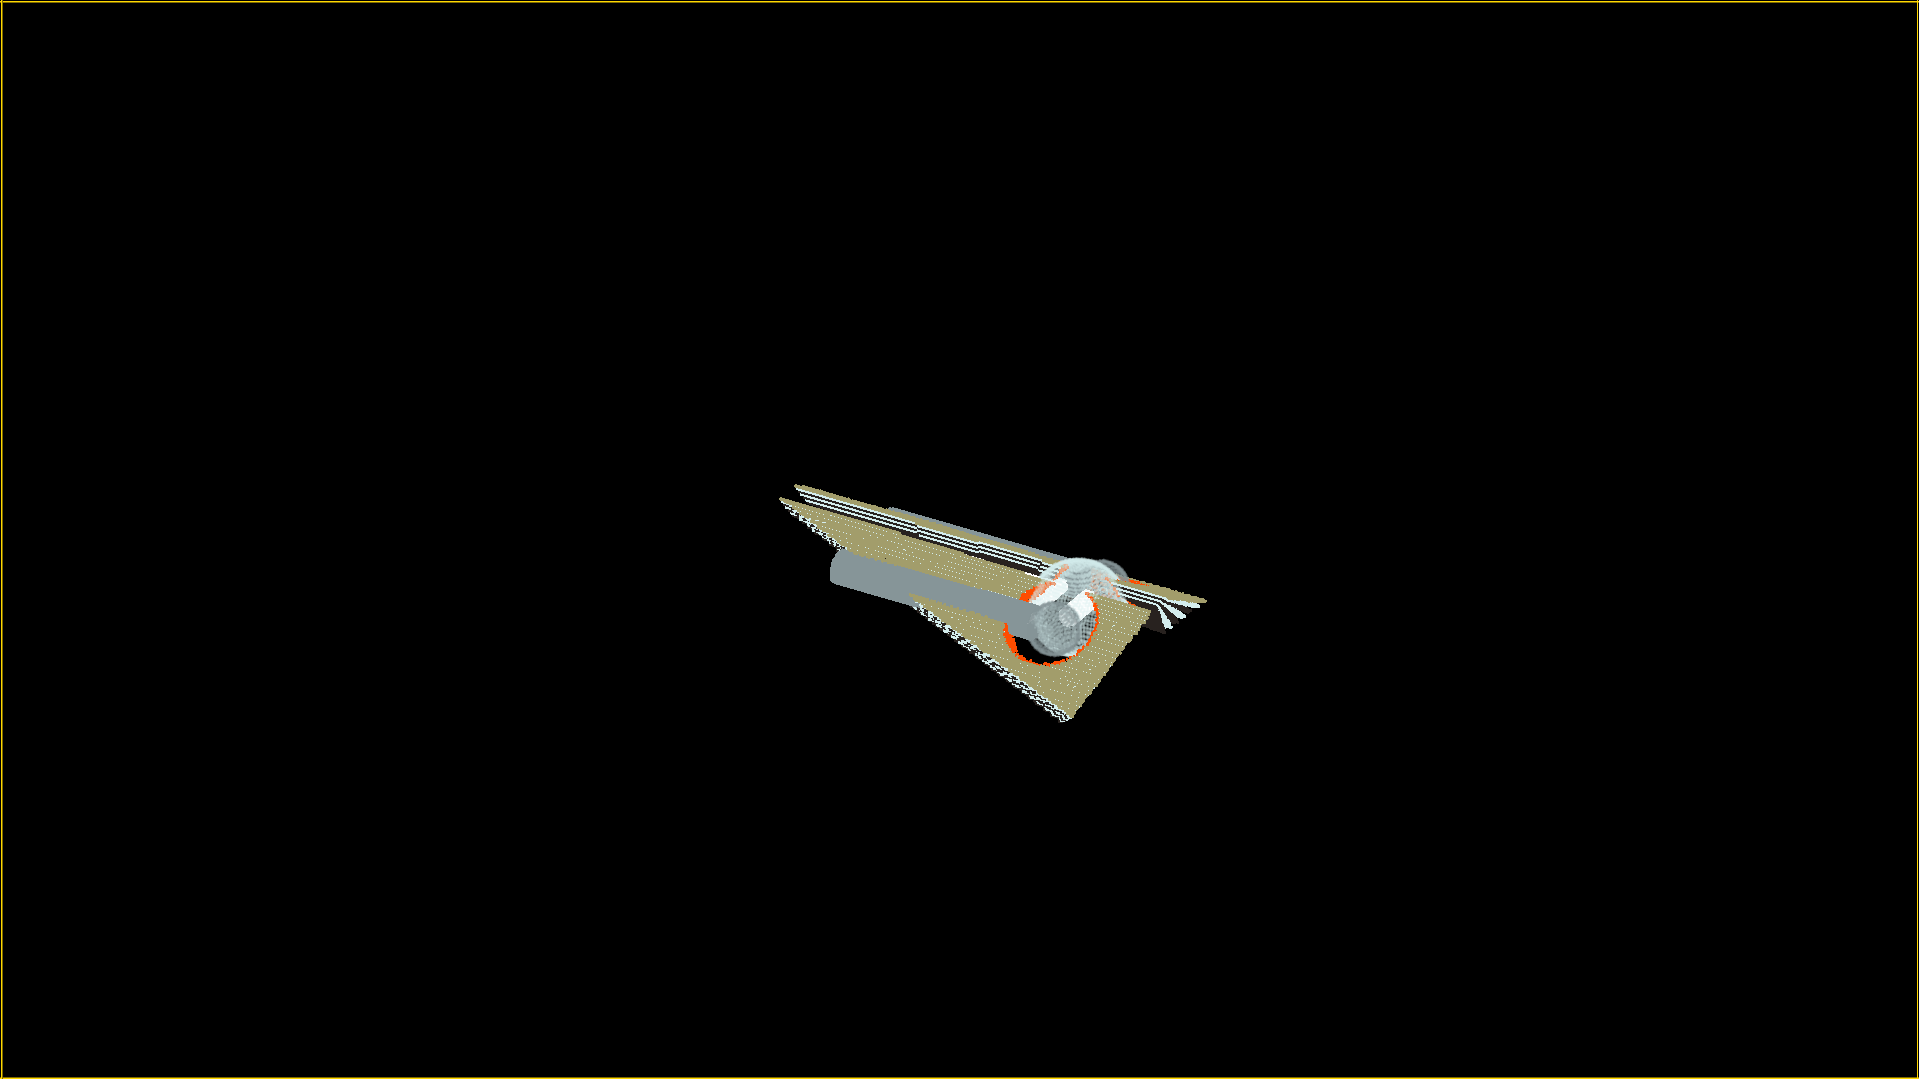
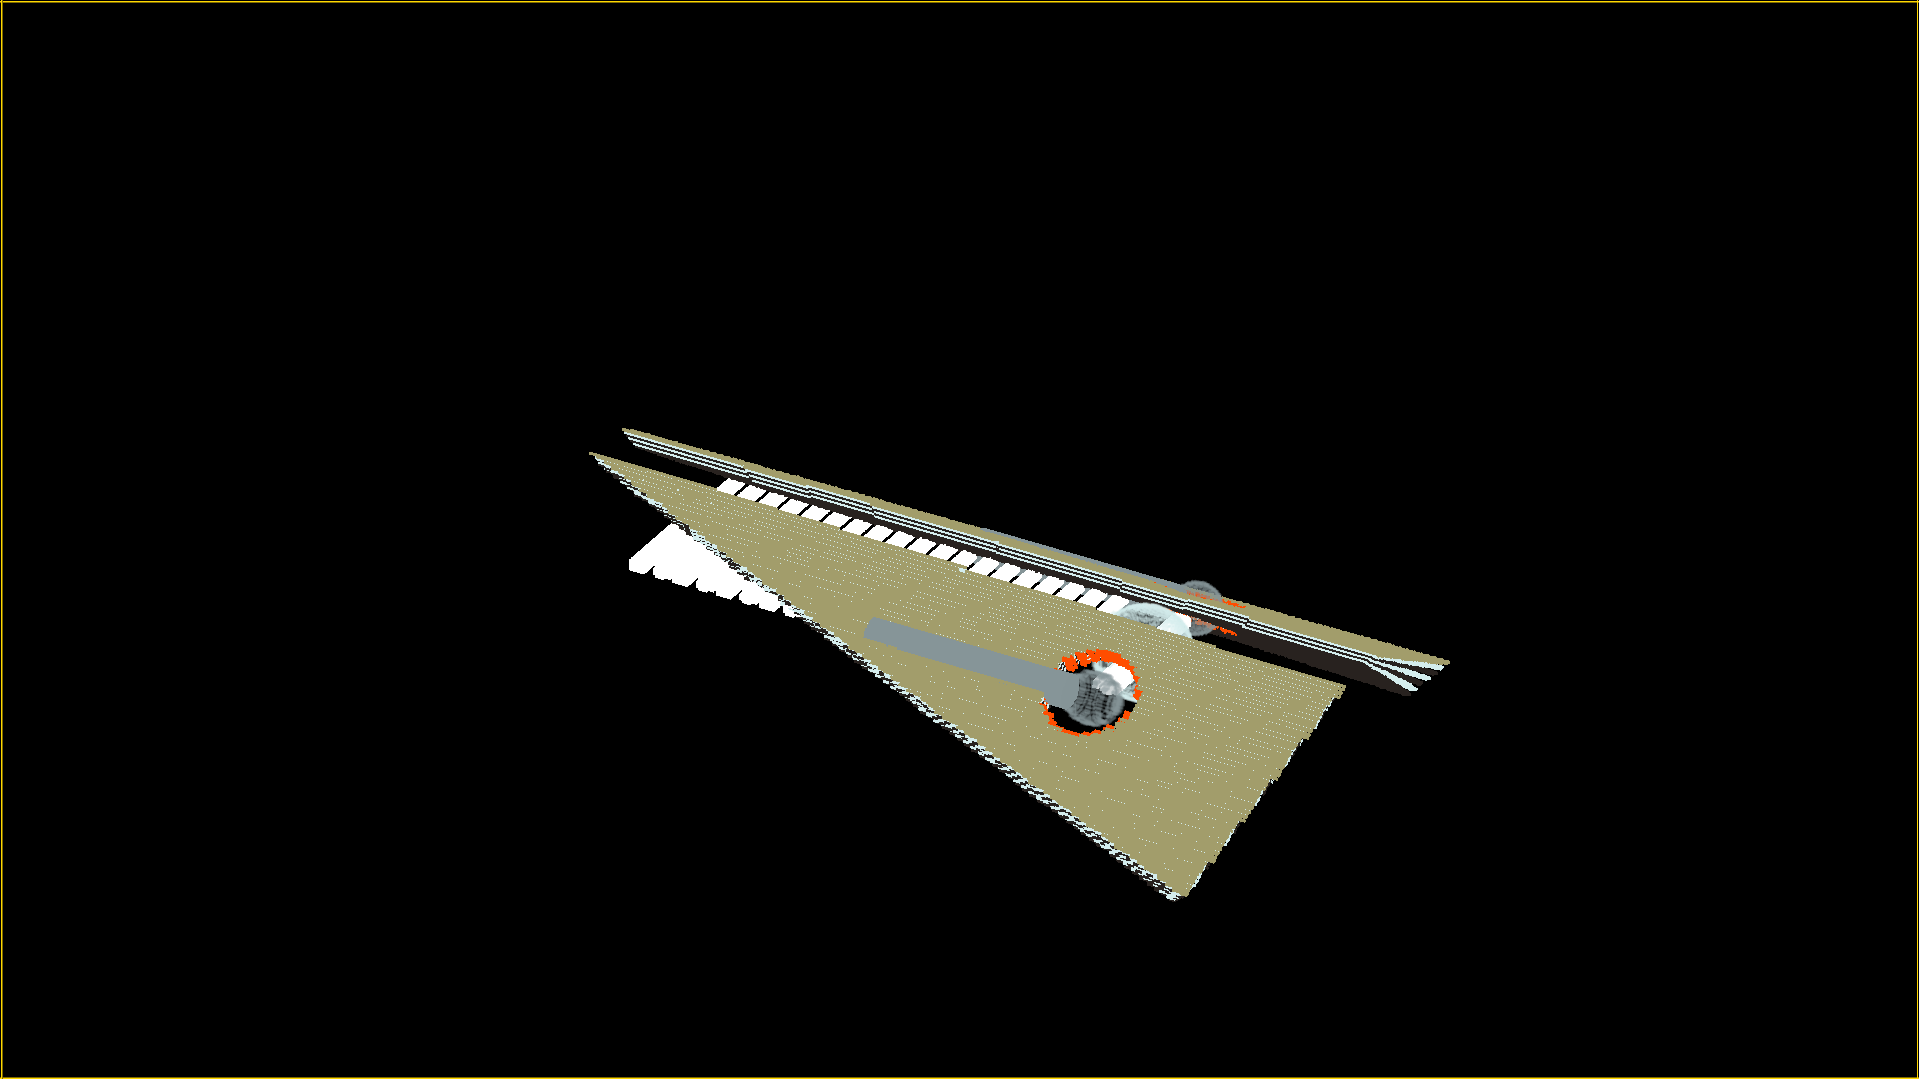
upped resolution from 256x128x128 to 512x256x256 for blocks

Changed region(s): [[0.3075, 0.3976, 0.7686, 0.8258]]

diff --git a/code/generate.cc b/code/generate.cc
@@ -15,9 +15,9 @@ using std::cin;
 using Clock=std::chrono::high_resolution_clock;
 using milliseconds=std::chrono::milliseconds;
 
-int init_x = 256;
-int init_y = 128;
-int init_z = 128;
+int init_x = 512;
+int init_y = 256;
+int init_z = 256;
 
 vec dimensions(init_x,init_y,init_z);
 
@@ -47,14 +47,14 @@ int main()
 
 
 
-  vec middle_front_point_1 = vec( 45, 63, 58 ); //side one is towards the negative z
-  vec middle_front_point_2 = vec( 45, 63, 69 ); //side one is towards the positive z
+  vec middle_front_point_1 = vec( 90, 126, 116 ); //side one is towards the negative z
+  vec middle_front_point_2 = vec( 90, 126, 138 ); //side one is towards the positive z
 
-  vec middle_back_point_1 = vec( 220, 60, 56 );
-  vec middle_back_point_2 = vec( 220, 60, 71 );
+  vec middle_back_point_1 = vec( 440, 120, 112 );
+  vec middle_back_point_2 = vec( 440, 120, 142 );
 
-  vec outer_point_1 = vec( 210, 32, 38 - 28 );
-  vec outer_point_2 = vec( 210, 32, 89 + 28 );
+  vec outer_point_1 = vec( 420, 64, 2 * (38 - 28) );
+  vec outer_point_2 = vec( 420, 64, 2 * (89 + 28) );
 
   vec ball_1_center = ( middle_front_point_1 + middle_back_point_1 + outer_point_1 );
   vec ball_2_center = ( middle_front_point_2 + middle_back_point_2 + outer_point_2 );
@@ -190,11 +190,11 @@ int main()
   main_block->draw->draw_sphere(betwixt_the_balls, 20, get_vox(57,0.1,1.0,false));
   main_block->draw->draw_sphere(betwixt_the_balls, 19, get_vox( 0,0.0,1.0,false));
 
-  vec ladder_point_1 = ball_1_center + vec(-15,0,0);
-  vec ladder_point_2 = ball_2_center + vec(-15,0,0);
+  vec ladder_point_1 = ball_1_center + vec(-30,0,0);
+  vec ladder_point_2 = ball_2_center + vec(-30,0,0);
 
-  for(int i = 0; i < 75; i+= 5)
-    main_block->draw->draw_tube(ladder_point_1 + vec(-i,0,0),ladder_point_2 + vec(-i,0,0),2,3,get_vox(52,1.0,1.0,false));
+  for(int i = 0; i <= 90; i+= 5)
+    main_block->draw->draw_tube(ladder_point_1 + vec(-i*2,0,0),ladder_point_2 + vec(-i*2,0,0),2,3,get_vox(52,1.0,1.0,false));
 
 
   // main_block->draw->mask_all_nonzero();

diff --git a/code/view.cc b/code/view.cc
@@ -238,7 +238,7 @@ void generate_points()
 	// }
 
 
-	cout << Index << endl;
+	// cout << Index << endl;
 
 
 
@@ -293,7 +293,7 @@ void init( Shader s )
 
 		if (data)
 		{
-		    glTexImage3D(GL_TEXTURE_3D, 0, GL_RGBA, 256, 128, 128, 0, GL_RGBA, GL_UNSIGNED_BYTE, data);
+		    glTexImage3D(GL_TEXTURE_3D, 0, GL_RGBA, 512, 256, 256, 0, GL_RGBA, GL_UNSIGNED_BYTE, data);
 		    glGenerateMipmap(GL_TEXTURE_3D);
 		}
 		else
